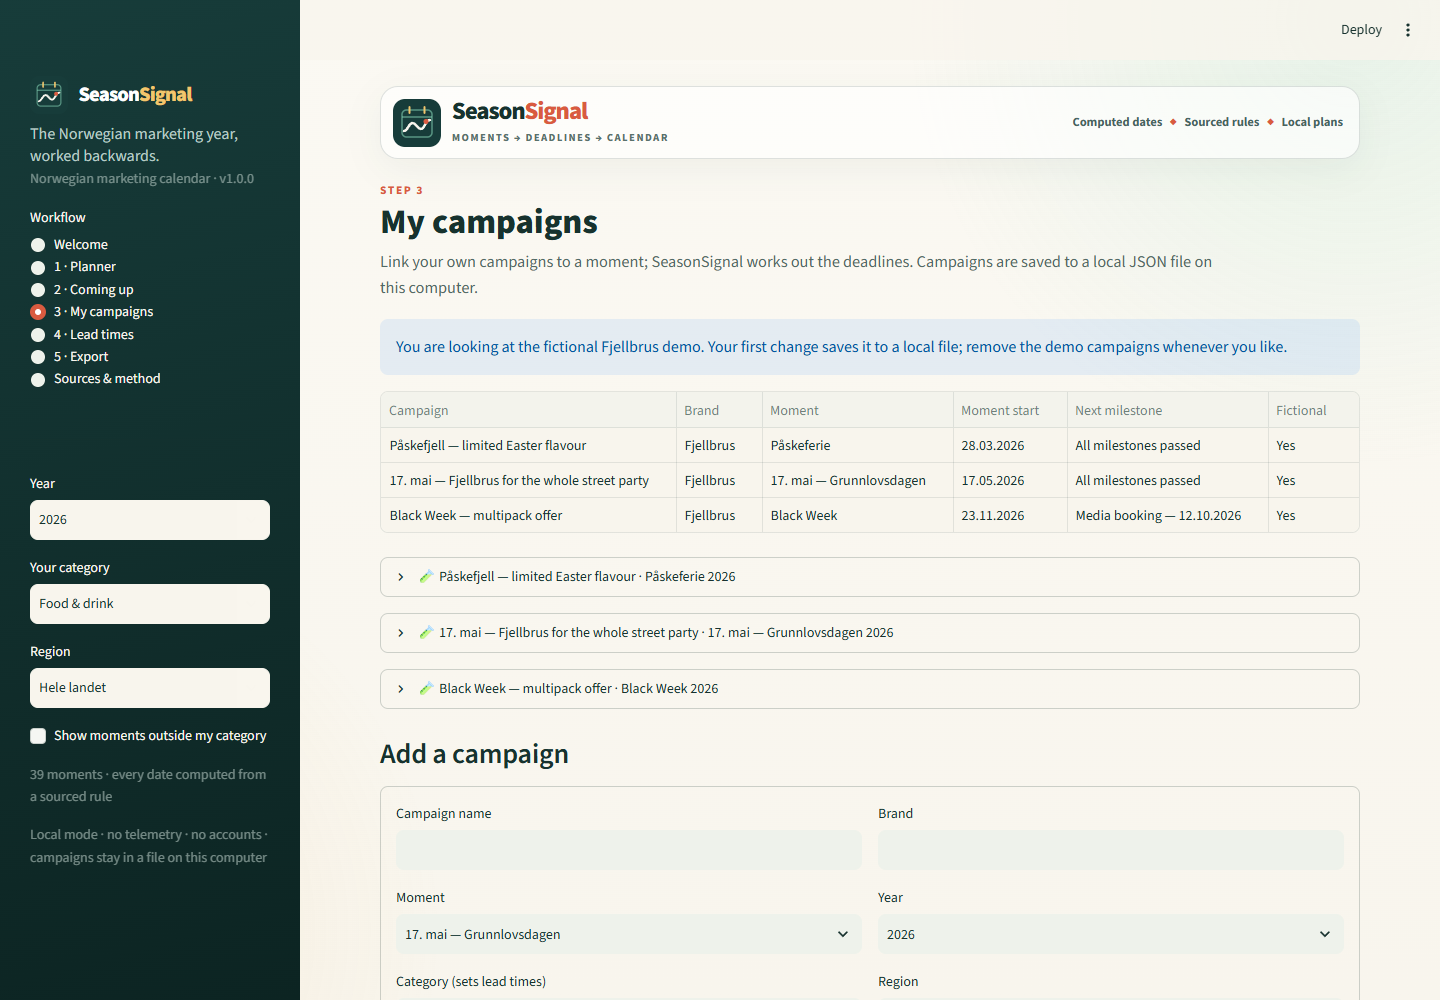
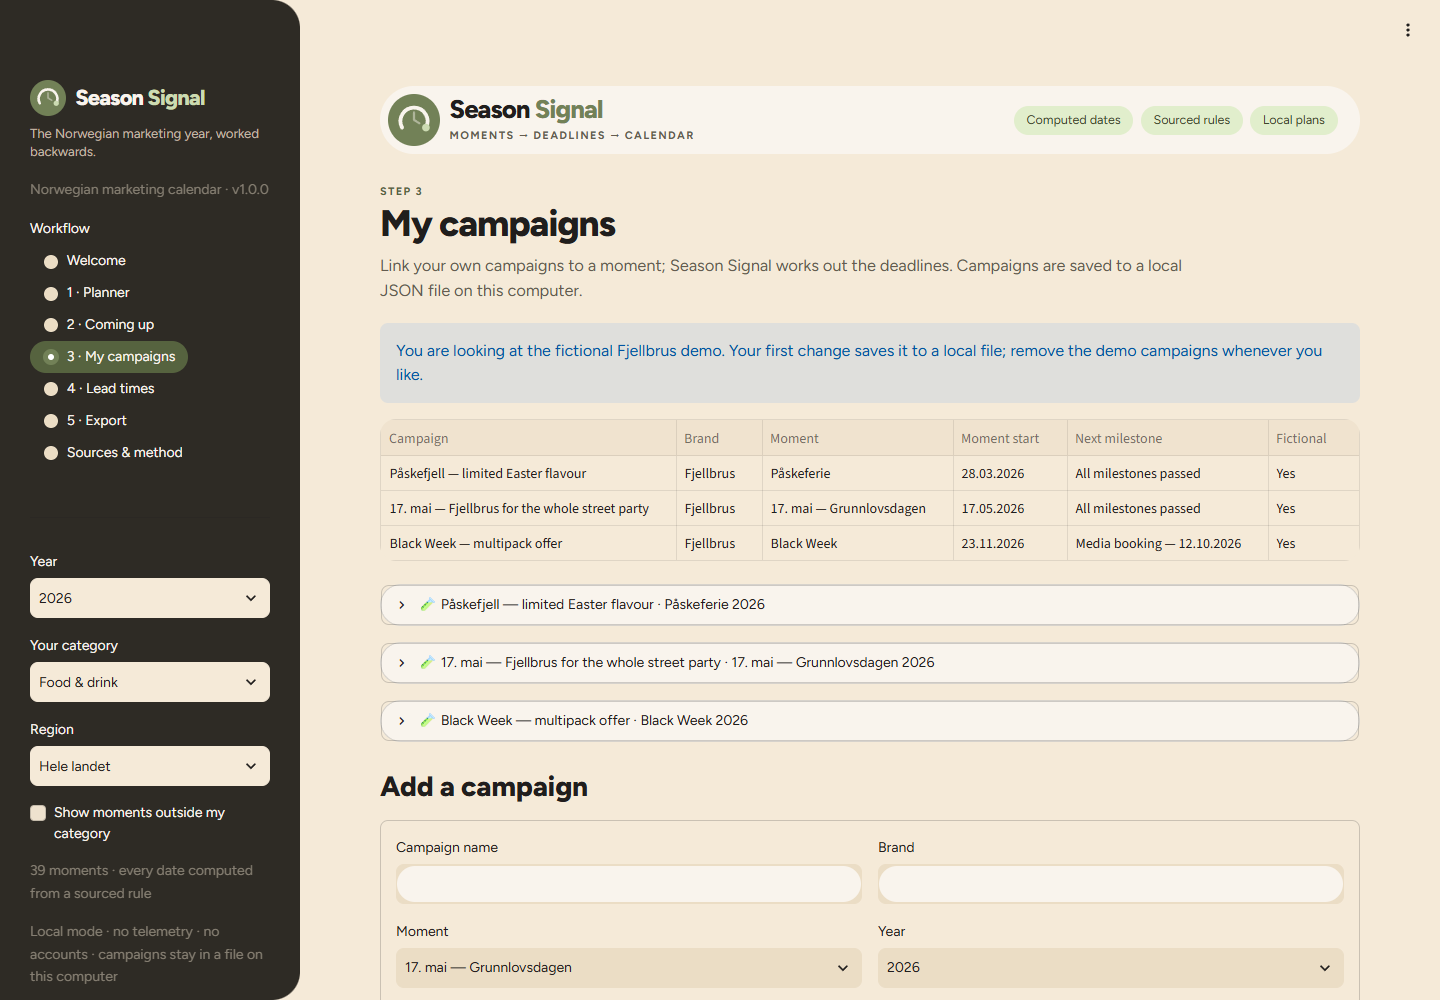
Re-take README screenshots in the Signal theme

diff --git a/scripts/take_screenshots.py b/scripts/take_screenshots.py
@@ -34,7 +34,7 @@ def main(base_url: str) -> None:
         page = browser.new_page(viewport={"width": 1440, "height": 1000}, device_scale_factor=1, color_scheme="light")
         for filename, query in SHOTS.items():
             page.goto(f"{base_url}/?{query}")
-            page.wait_for_selector(".ps-footer", timeout=60_000)
+            page.wait_for_selector(".sg-foot", timeout=60_000)
             if "planner" in query:
                 page.wait_for_selector(".js-plotly-plot .trace", timeout=60_000)
             page.wait_for_timeout(1500)  # let fonts, charts and toasts settle

diff --git a/CHANGELOG.md b/CHANGELOG.md
@@ -11,6 +11,8 @@
 - Bug-report and feature-request issue templates.
 - The architecture rule now reads "no Streamlit under `src/seasonsignal/` except `src/seasonsignal/ui/`"; the guard test allows only `ui/`. The marks ship as package data.
 - `plotly` widened to `>=5.18,<8` so Season Signal installs next to the other Signal apps.
+- Figtree is embedded with the theme (`seasonsignal.ui.signal_font`, OFL licence included); the app no longer requests Google Fonts.
+- README screenshots re-taken in the Signal theme; `scripts/take_screenshots.py` waits for the new `.sg-foot` footer.
 
 ## 1.0.0 — unreleased
 
